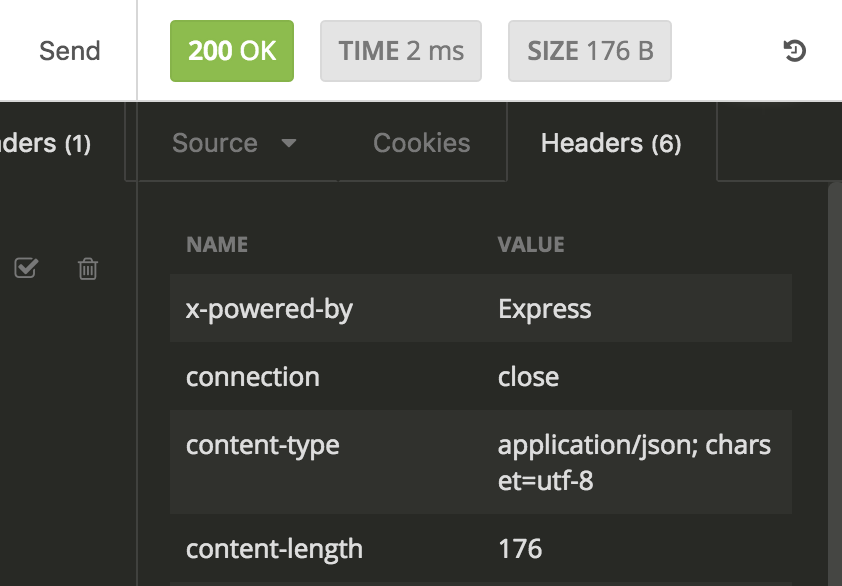
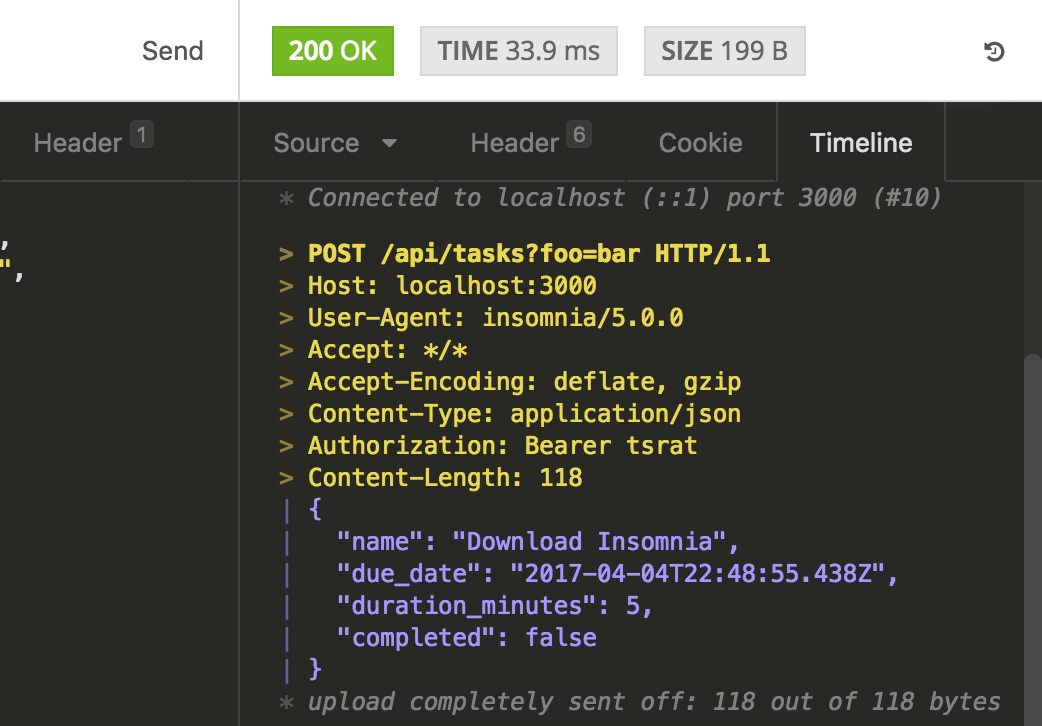
Version 5.0 ready

diff --git a/layouts/index.html b/layouts/index.html
@@ -49,9 +49,9 @@
         <div class="col-4 padding-top-lg">
           <div class="img--promo">
             <img src="/images/screens/responses.png"
-                 alt="Insomnia Request Basic Authentication">
+                 alt="Insomnia Response Details">
           </div>
-          <h3>View response details</h3>
+          <h3>See every detail</h3>
           <p>
             Get all the details on every response. View status code, body,
             headers, cookies, and more!
@@ -78,6 +78,9 @@
           <h2 class="text-xxl">Get more done, faster</h2>
           <p class="text-lg" style="max-width:35rem;margin:auto">
             Insomnia is more than <i>just</i> an HTTP client
+            <br>
+            <br>
+            {{ partial "download-button" }}
           </p>
         </div>
       </div>
@@ -158,6 +161,7 @@
       <div class="row feature-list">
         <div class="col-6">
           <ul>
+            <li>OAuth 2.0 Authentication</li>
             <li>Multipart form builder</li>
             <li>Query parameter builder</li>
             <li>SSL client certificates</li>
@@ -167,22 +171,23 @@
             <li>Rendered HTML preview</li>
             <li>Image and SVG preview</li>
             <li>Configurable proxy</li>
-            <li>Light and dark themes</li>
+            <li>Color themes</li>
             <li>Cloud sync and sharing</li>
           </ul>
         </div>
         <div class="col-6">
           <ul>
-            <li>Nunjucks templating</li>
             <li>Import from <code style="color:#333">curl</code></li>
+            <li>Digest, Basic, NTLM Auth</li>
+            <li>Nunjucks templating</li>
+            <li>Configurable timeout</li>
             <li>HAR import</li>
             <li>Request filtering</li>
             <li>Toggle SSL validation</li>
             <li>Keyboard shortcuts</li>
-            <li>Configurable timeout</li>
             <li>Usable at almost all sizes</li>
-            <li>Drag-n-drop organization</li>
             <li>Responsive interface</li>
+            <li>Redirect chain visualization</li>
             <li>Mac, Windows and Linux</li>
           </ul>
         </div>

diff --git a/themes/hugo-insomnia-theme/layouts/partials/head.html b/themes/hugo-insomnia-theme/layouts/partials/head.html
@@ -85,13 +85,13 @@
   <meta name="twitter:creator" content="{{ .Site.Params.twitter }}">
   <meta name="twitter:title" content="{{ .Site.Title }}">
   <meta name="twitter:description" content="{{ .Site.Params.description }}">
-  <meta name="twitter:image" content="{{ .Site.BaseURL }}images/twitter-promo-2.png">
+  <meta name="twitter:image" content="{{ .Site.BaseURL }}images/twitter-promo-3.png">
   <!-- Facebook Metadata (Home Page) -->
   <meta property="og:url" content="{{ .Permalink }}"/>
   <meta property="og:type" content="website"/>
   <meta property="og:title" content="{{ .Site.Title }}"/>
   <meta property="og:description" content="{{ .Site.Params.description }}"/>
-  <meta property="og:image" content="{{ .Site.BaseURL }}images/twitter-promo-2.png"/>
+  <meta property="og:image" content="{{ .Site.BaseURL }}images/twitter-promo-3.png"/>
   {{ else if .IsNode }}
   <!-- Twitter Summary Card (List Page) -->
   <meta name="twitter:card" content="summary"/>

diff --git a/themes/hugo-insomnia-theme/layouts/partials/footer.html b/themes/hugo-insomnia-theme/layouts/partials/footer.html
@@ -2,21 +2,21 @@
   <section>
     <p class="footer__menu">
       {{ if .Site.Params.twitter }}
-      <a href="//twitter.com/{{ .Site.Params.twitter }}" target="_blank"
+      <a href="https://twitter.com/{{ .Site.Params.twitter }}" target="_blank"
          title="Twitter">
         Twitter
       </a>
       {{ end }}
 
       {{ if .Site.Params.github }}
-      <a href="//github.com/{{ .Site.Params.github }}" target="_blank"
+      <a href="https://github.com/{{ .Site.Params.github }}" target="_blank"
          title="GitHub">
         Github
       </a>
       {{ end }}
 
       {{ if .Site.Params.googlePlus }}
-      <a href="//plus.google.com/+{{ .Site.Params.googlePlus }}" target="_blank"
+      <a href="https://plus.google.com/+{{ .Site.Params.googlePlus }}" target="_blank"
          title="Google+">
         Google+
       </a>

diff --git a/content/blog/insomnia-5.0.md b/content/blog/insomnia-5.0.md
@@ -1,0 +1,118 @@
+---
+date: 2017-04-05
+title: Insomnia 5.0 – The Biggest Release Yet!
+slug: insomnia-5-announcement
+tags: ["update", "announcement"]
+---
+
+**TL;DR – This update brings contextual autocomplete, more authentication types, and 
+better debugging!** &#128079;
+
+It's been over a month since the last release but version 5.0 is finally here! 
+So, find a chair, take a seat, and brace yourself for what's about to come.
+
+<!--more-->
+
+![Excited dog sitting](https://media.giphy.com/media/grjSZjbnxudq0/giphy.gif)
+
+Now that you're prepared, let's dive into the new stuff.
+
+## Autocomplete, Everywhere &#128640;
+
+By far the biggest feature of 5.0 is the introduction of autocomplete. Now, just 
+like your favourite code editor, Insomnia will suggest completions for common things 
+like variable names, URLs, HTTP headers, and template tags. 
+
+<img title="Insomnia Autocomplete" src="/images/blog/version-5/autocomplete.gif" class="small" />
+
+## Rendering Errors and Debugging &#128680;
+
+The new autocomplete system involved making some core changes to the rendering pipeline so, 
+while that was happening, I spent some time improving the user experience around render 
+errors.
+
+The app now displays errors inline *before* the request is sent. That's right! No more 
+wondering whether or not you typed in your variable name correctly. &#128526;
+
+<img title="Better error reporting" src="/images/blog/version-5/render-errors.png" class="small" />
+ 
+Besides better error reporting, the debug experience is also improved. Insomnia can now
+render previews on hover, and also now provides and interactive variable editor for even
+more control.
+
+<img title="Insomnia Render Error" src="/images/blog/version-5/variable-error.gif" class="small" />
+
+## New `libcurl` Network Backend and Timeline &#127959; 
+
+[Curl](https://curl.haxx.se/) is one of the most popular and feature-rich HTTP clients in 
+the world and its command-line interface is often used for debugging and testing of APIs – 
+making it a perfect fit for powering Insomnia's network stack. 
+
+Every network request made through Insomnia will now be sent using the `libcurl` C API.
+Using Curl not only improves Insomnia's reliability, but it also makes it possible to 
+implement more advanced features like network throttling and download progress in the future
+(coming soon). 
+
+Thanks to `libcurl`, there is a new _Timeline_ view that shows a debug log similar to the 
+output when using Curl's `--verbose` flag. This is extremely valuable for debugging
+network problems when it's not clear exactly what's going wrong.
+
+<img title="Timeline Debugging View" src="/images/blog/version-5/curl.png" class="small" />
+
+I would like to give a huge thanks to the maintainer of 
+[`node-libcurl`](https://github.com/JCMais/node-libcurl/). Without this project, integrating
+Curl into Insomnia would have taken a lot more work.
+
+## OAuth 2.0, Digest, and NTLM Authentication &#128272;
+
+OAuth 2.0 is an extremely popular authentication mechanism, meaning Insomnia can now 
+easily interact with many popular APIs like Github, Dropbox, Facebook, and Google. Simply
+fill out a few OAuth 2.0 parameters and Insomnia will take care of user authentication,
+generation of the `Authorization` header, and renewing refresh tokens when needed.
+
+_Insomnia supports all four OAuth 2.0 grant types so it should be able to handle anything
+you throw at it._
+
+![Insomnia OAuth 2.0 Demo](/images/blog/version-5/dropbox.gif)
+
+Along with OAuth 2.0, Insomnia now supports both 
+[Digest](https://en.wikipedia.org/wiki/Digest_access_authentication) and 
+[NTLM (Windows)](https://msdn.microsoft.com/en-us/library/windows/desktop/aa378749(v=vs.85).aspx) 
+authentication.
+
+## Sortable Key-Value Editors &#9994;
+
+If you like dragons, you'll love the new drag-n-drop sorting of Insomnia's key-value fields.
+Satisfy your inner perfectionist and sort your headers, query parameters, and form data whatever 
+way you want!
+
+<img title="Insomnia Autocomplete" src="/images/blog/version-5/sort.gif" class="small" />
+
+_Alright, this one isn't that exciting, but it was so heavily requested that it made sense 
+to talk about it in this post._
+
+## So Much More &#127813;&#127815;&#127817;&#127820;&#127827;
+
+There is so much more that didn't make it into this post that I know you'll love.
+If you're curious you can view the full [release notes](/changelog/5.0.0/), but here's
+a summary of the most notable ones missed:
+
+  - Environment variables and template tags now highlighted throughout the app
+  - Added per-request settings for controlling cookies, rendering, and URL encoding
+  - Digest and NTLM authentication now supported in proxy
+  - Custom HTTP methods now supported
+  - App panes now resizable when in vertical layout
+  - Response view types have been reworked to behave more intuitively
+
+## Thanks for the Support! &#127867;
+
+Almost all of the changes in version 5 are a direct result of the 
+hundreds of email conversations I've had with users over the past year so "**thank you!**"
+and keep them email coming! &#128140;
+
+Also, if you'd like to help support future development and get bonus features like 
+cloud sync, check out [Insomnia Plus](/pricing).
+
+<span class="text-lg">&#127939;&#128168;</span> Time to get started on the next big thing...
+
+~ Gregory

diff --git a/content/changelog-json/v5.0.0.md b/content/changelog-json/v5.0.0.md
@@ -1,0 +1,43 @@
+---
+date: 2017-04-05
+title: Insomnia v5.0.0 Release
+slug: 5.0.0
+summary: Version 5.0 is here and it's the biggest release yet!
+link: https://insomnia.rest/blog/
+major:
+  - Contextual autocomplete for environments, URLs, header names/values, and more
+  - All key-value editors are now sortable
+  - Add OAuth 2.0, Digest, and NTLM authentication
+  - New Timeline response tab that shows much more detail about the request
+  - Environment variables and template tags now highlighted throughout the app
+  - Replaced NodeJS networking backend with libcurl
+  - Added per-request settings for controlling cookies, template rendering, and URL encoding
+  - Proxy now supports Digest and NTLM auth types
+  - Support for custom HTTP methods
+  - App panes now resizable when in vertical layout
+  - Many minor performance improvements
+minor:
+  - Environment editor now respects line wrap setting
+  - App now prompts to sync unrecognized workspaces instead of syncing without asking
+  - Response view types have been reworked to behave more intuitively
+  - Enable context (right-click) menu in response web view
+  - Request body syntax highlighting recognizes more content-types 
+  - Better errors for render failures
+  - HTTP proxy can now be toggled on and off
+  - Tabs no longer lose state after switching
+  - Update bracket match style in editor
+  - Window title now reflects active workspace and request
+  - Header names now trimmed of whitespace before sending
+  - Add warning when environments exist, but none are selected
+  - Better styling of numeric counters on tabs
+  - Added tooltip help hints in various places
+fixes:
+  - No longer auto-encode equals sign in URL path
+  - Cookies now stored on redirects
+  - More reliable sort order after duplicating requests
+  - Clicking on workspaces in request switcher now works again
+  - More reliable querystring importing
+  - Fixed drag-n-drop support within code editor
+  - Headers editor now refreshed after changing body content-type
+---
+

diff --git a/content/changelog/v5.0.0.md b/content/changelog/v5.0.0.md
@@ -1,0 +1,43 @@
+---
+date: 2017-04-05
+title: Insomnia v5.0.0 Release
+slug: 5.0.0
+summary: Version 5.0 is here and it's the biggest release yet!
+link: https://insomnia.rest/blog/
+major:
+  - Contextual autocomplete for environments, URLs, header names/values, and more
+  - All key-value editors are now sortable
+  - Add OAuth 2.0, Digest, and NTLM authentication
+  - New Timeline response tab that shows much more detail about the request
+  - Environment variables and template tags now highlighted throughout the app
+  - Replaced NodeJS networking backend with libcurl
+  - Added per-request settings for controlling cookies, template rendering, and URL encoding
+  - Proxy now supports Digest and NTLM auth types
+  - Support for custom HTTP methods
+  - App panes now resizable when in vertical layout
+  - Many minor performance improvements
+minor:
+  - Environment editor now respects line wrap setting
+  - App now prompts to sync unrecognized workspaces instead of syncing without asking
+  - Response view types have been reworked to behave more intuitively
+  - Enable context (right-click) menu in response web view
+  - Request body syntax highlighting recognizes more content-types 
+  - Better errors for render failures
+  - HTTP proxy can now be toggled on and off
+  - Tabs no longer lose state after switching
+  - Update bracket match style in editor
+  - Window title now reflects active workspace and request
+  - Header names now trimmed of whitespace before sending
+  - Add warning when environments exist, but none are selected
+  - Better styling of numeric counters on tabs
+  - Added tooltip help hints in various places
+fixes:
+  - No longer auto-encode equals sign in URL path
+  - Cookies now stored on redirects
+  - More reliable sort order after duplicating requests
+  - Clicking on workspaces in request switcher now works again
+  - More reliable querystring importing
+  - Fixed drag-n-drop support within code editor
+  - Headers editor now refreshed after changing body content-type
+---
+

diff --git a/content/documentation/starting/faq.md b/content/documentation/starting/faq.md
@@ -38,8 +38,9 @@ how you use Insomnia, or sign up for a [paid plan](/pricing).
 At this time, that is not possible, but it's coming soon.
 
 **How can I temporarily disable Nunjucks template?**<br>
-Sometimes, it is necessary to want to send data that conflicts with the template
-engine. You can disable templating by wrapping the desired content in the
+You can disable templating of the request body via the request settings dialog 
+(accessed from the sidebar). For more control, you can also disable templating by 
+wrapping the desired content in the 
 [Nunjucks {% raw %} Tag](https://mozilla.github.io/nunjucks/templating.html#raw).
 
 **Why don't I see anything after importing a backup?**<br>
@@ -59,13 +60,12 @@ files with the name `insomnia.${resourceName}.db`.
 - `$XDG_CONFIG_HOME` or `~/.config` on Linux
 - `~/Library/Application` Support on macOS
 
-
-
 ## Random Questions
 
 **What technologies is Insomnia build with?**<br>
 Insomnia is built using [Electron](http://electron.atom.io/), 
 [ReactJS](https://facebook.github.io/react/), and 
+[libcurl](https://curl.haxx.se/libcurl/), and 
 [NeDB](https://github.com/louischatriot/nedb).
 
 **How can I donate?**<br>

diff --git a/content/documentation/topics/authentication.md b/content/documentation/topics/authentication.md
@@ -1,0 +1,27 @@
+---
+title: Authentication
+slug: authentication
+menu:
+    docs:
+        parent: "topics"
+        weight: -90
+---
+
+Insomnia can automatically generate and send `Authorization` headers for the following
+authentication schemes:
+
+- [HTTP Basic Authentication](https://en.wikipedia.org/wiki/Basic_access_authentication)
+- [HTTP Digest Authentication](https://en.wikipedia.org/wiki/Digest_access_authentication)
+- [OAuth 2.0](https://tools.ietf.org/html/rfc6749)
+- [Microsoft NTLM](https://msdn.microsoft.com/en-us/library/windows/desktop/aa378749(v=vs.85).aspx)
+
+## Configuring Authentication
+
+To configure authentication for a request, select the desired authentication type from the
+_Auth_ dropdown, then fill out the required fields.
+
+<img title="Authentication Selection Dropdown" src="/images/docs/authentication.png" class="small"/>
+
+When sending the request, Insomnia will automatically generate and set the `Authoriziation` header
+needed. For more complex auth types like OAuth, the app may also prompt the user with a login
+form to obtain an OAuth token.

diff --git a/content/documentation/topics/proxy.md b/content/documentation/topics/proxy.md
@@ -6,6 +6,14 @@ menu:
         parent: "topics"
 ---
 
-Insomnia does not automatically detect system-wide proxy settings, but a proxy can be set up
-manually if needed. From the settings menu, set the `HTTP Proxy` and `HTTPS Proxy` to the 
+Insomnia does not automatically detect system-wide proxy settings but a proxy can be set up
+manually if needed. From the settings menu, set the `HTTP Proxy` and/or `HTTPS Proxy` to the 
 location of your proxy server and all future requests will be rerouted.
+
+## Authentication
+
+If your proxy needs authentication, you can include the credentials in the URL.
+
+```
+http://username:password@localhost:8005
+```

diff --git a/content/documentation/other/roadmap.md b/content/documentation/other/roadmap.md
@@ -11,12 +11,7 @@ In an effort to help cut down on feature request emails, here's a list some of
 the major things that are planned for completion over the next few months. 
 
 - Request chaining 
-- OAuth support
-- Windows authentication support (NTLM)
 - Multiple active environments
-- More authentication types (OAuth)
-- View raw request/response communication
-- Preview environment variables inline
 - Plugin/scripting system
 
 This list may change at any time. If there's missing that you would like to 
